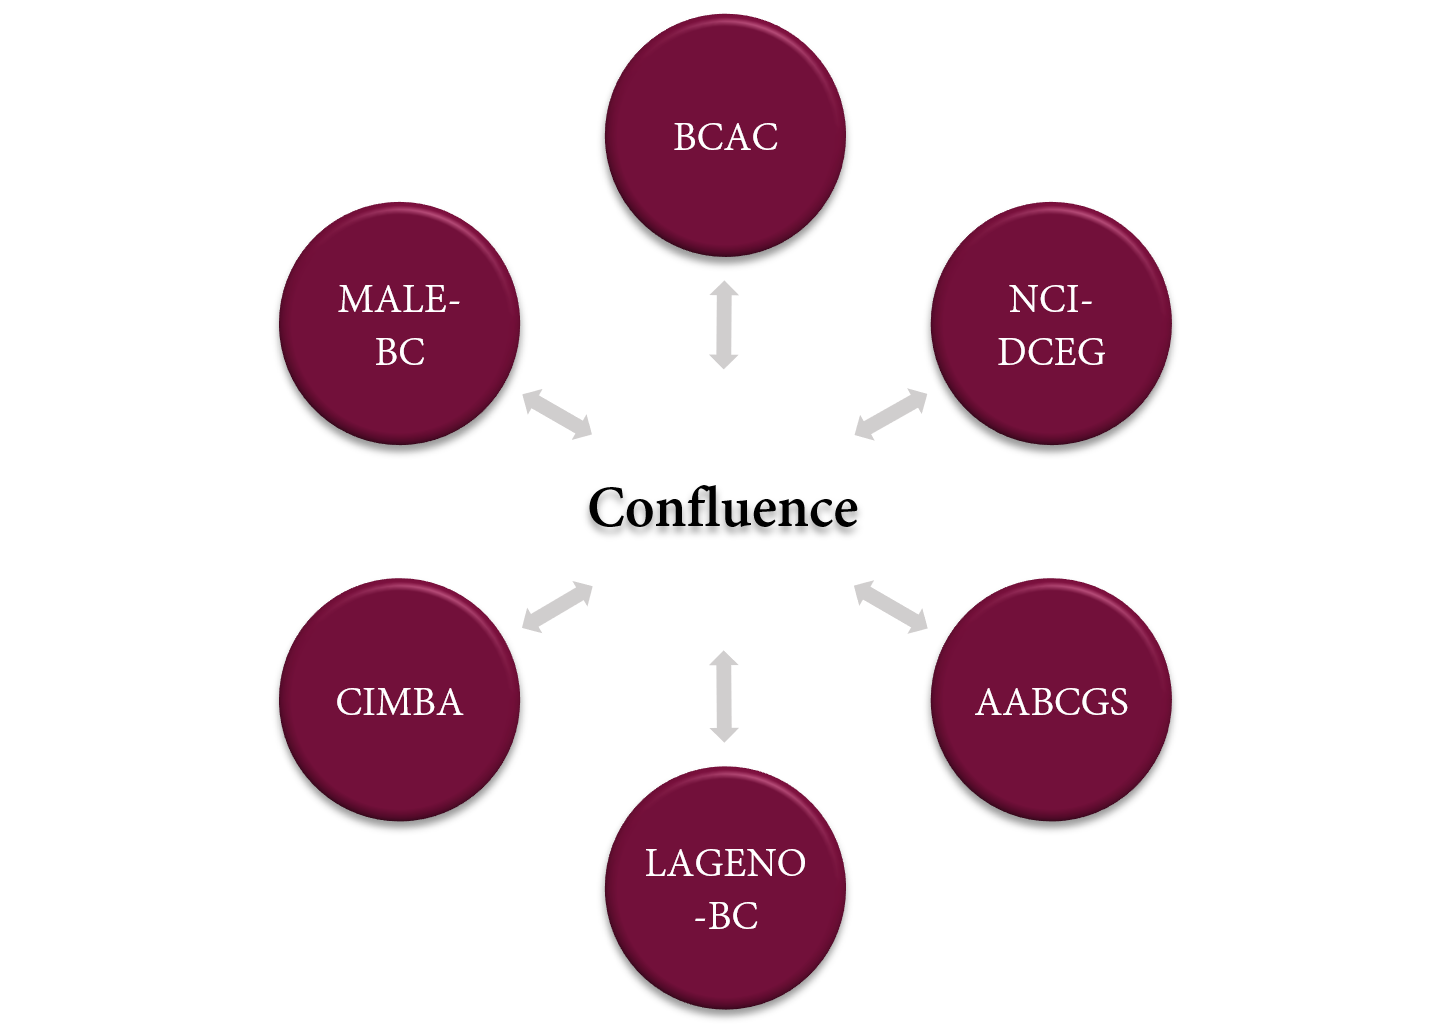
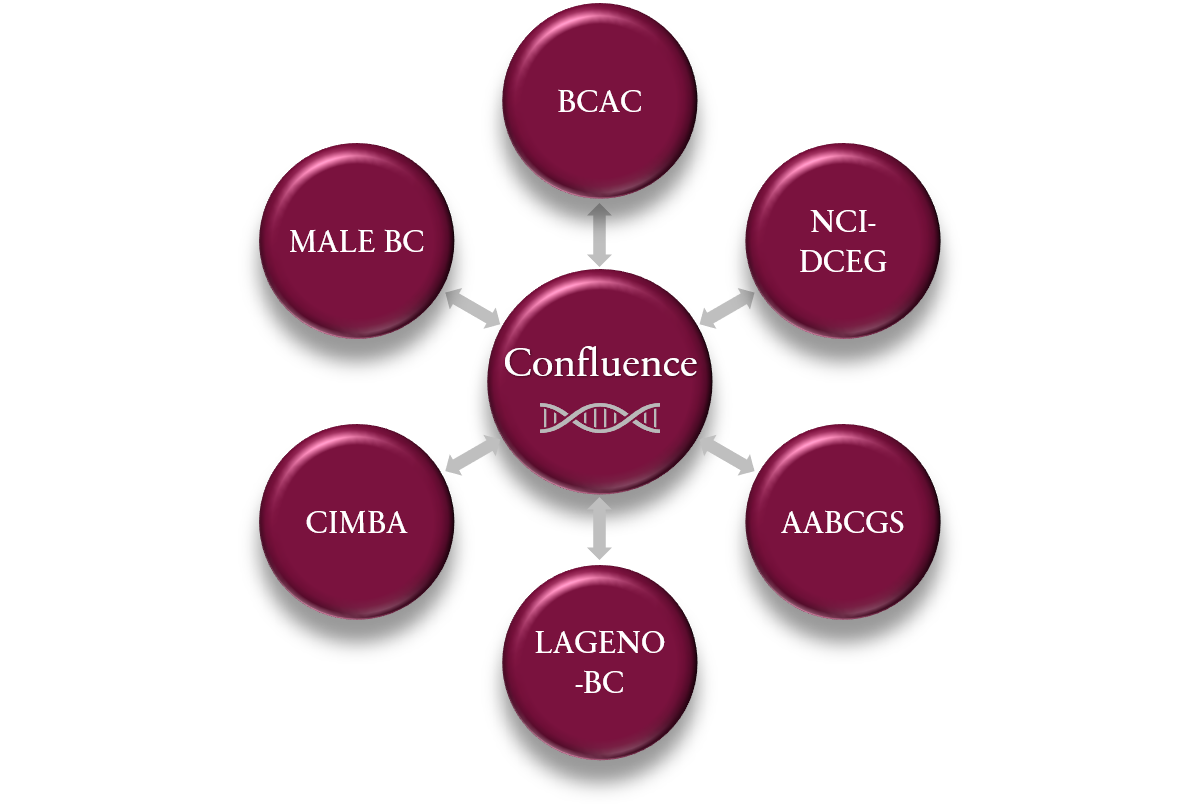
updating home page confluence consortia circle

Changed region(s): [[0.1852, 0.0, 0.8332, 0.8065], [0.4012, 0.6824, 0.5863, 0.9926], [0.4629, 0.0931, 0.5246, 0.1551]]

diff --git a/src/pages/homePage.js b/src/pages/homePage.js
@@ -29,12 +29,12 @@ export const template = () => {
         <div class="col-sm-5" id="confluenceInfo">
             <img id="consortiaCircle" src="./static/images/home_page_circle.png" alt="List of consortiums displayed in circle format" height="95%" width="95%" usemap="#consortiamap">
             <map name="consortiamap">
-                <area shape="circle" coords="275,50,40" alt="BCAC" title="Breast Cancer Association Consortium" id="map1">
-                <area shape="circle" coords="397,115,40" alt="NCI-DCEG" title="NCI-DCEG" id="map2">
-                <area shape="circle" coords="397,250,40" alt="AABCGS" title="African Ancestry Breast Cancer Genetic Study" id="map3">
-                <area shape="circle" coords="275,318,40" alt="LAGENO-BC" title="Latin America Genomics Breast Cancer Consortium" id="map4">
-                <area shape="circle" coords="153,250,40" alt="CIMBA" title="Consortium of Investigators of Modifers of BRCA1/2" id="map5">
-                <area shape="circle" coords="153,115,40" alt="MALE-BC" title="Male Breast Cancer GWAS Consortium" id="map6">
+                <area shape="circle" coords="275,45,40" alt="BCAC" title="Breast Cancer Association Consortium" id="map1">
+                <area shape="circle" coords="385,105,40" alt="NCI-DCEG" title="NCI-DCEG" id="map2">
+                <area shape="circle" coords="385,230,40" alt="AABCGS" title="African Ancestry Breast Cancer Genetic Study" id="map3">
+                <area shape="circle" coords="275,290,40" alt="LAGENO-BC" title="Latin America Genomics Breast Cancer Consortium" id="map4">
+                <area shape="circle" coords="162,230,40" alt="CIMBA" title="Consortium of Investigators of Modifers of BRCA1/2" id="map5">
+                <area shape="circle" coords="162,105,40" alt="MALE-BC" title="Male Breast Cancer GWAS Consortium" id="map6">
             </map>
         </div>
     </div>
@@ -51,17 +51,17 @@ window.onresize = () => {
     const width = document.getElementById('consortiaCircle').width;
     const radius = (height * width) / 5450;
     const map1 = document.getElementById('map1');
-    map1.coords = `${width/2},${height/7.36},${radius}`;
+    map1.coords = `${width/1.99},${height/7.87},${radius}`;
     const map2 = document.getElementById('map2');
-    map2.coords = `${width/1.38},${height/3.2},${radius}`;
+    map2.coords = `${width/1.42},${height/3.37},${radius}`;
     const map3 = document.getElementById('map3');
-    map3.coords = `${width/1.38},${height/1.47},${radius}`;
+    map3.coords = `${width/1.42},${height/1.54},${radius}`;
     const map4 = document.getElementById('map4');
-    map4.coords = `${width/2},${height/1.15},${radius}`;
+    map4.coords = `${width/1.99},${height/1.22},${radius}`;
     const map5 = document.getElementById('map5');
-    map5.coords = `${width/3.58},${height/1.47},${radius}`;
+    map5.coords = `${width/3.39},${height/1.54},${radius}`;
     const map6 = document.getElementById('map6');
-    map6.coords = `${width/3.58},${height/3.2},${radius}`;
+    map6.coords = `${width/3.39},${height/3.37},${radius}`;
 }
 
 export const addEventAboutConfluence = () => {
